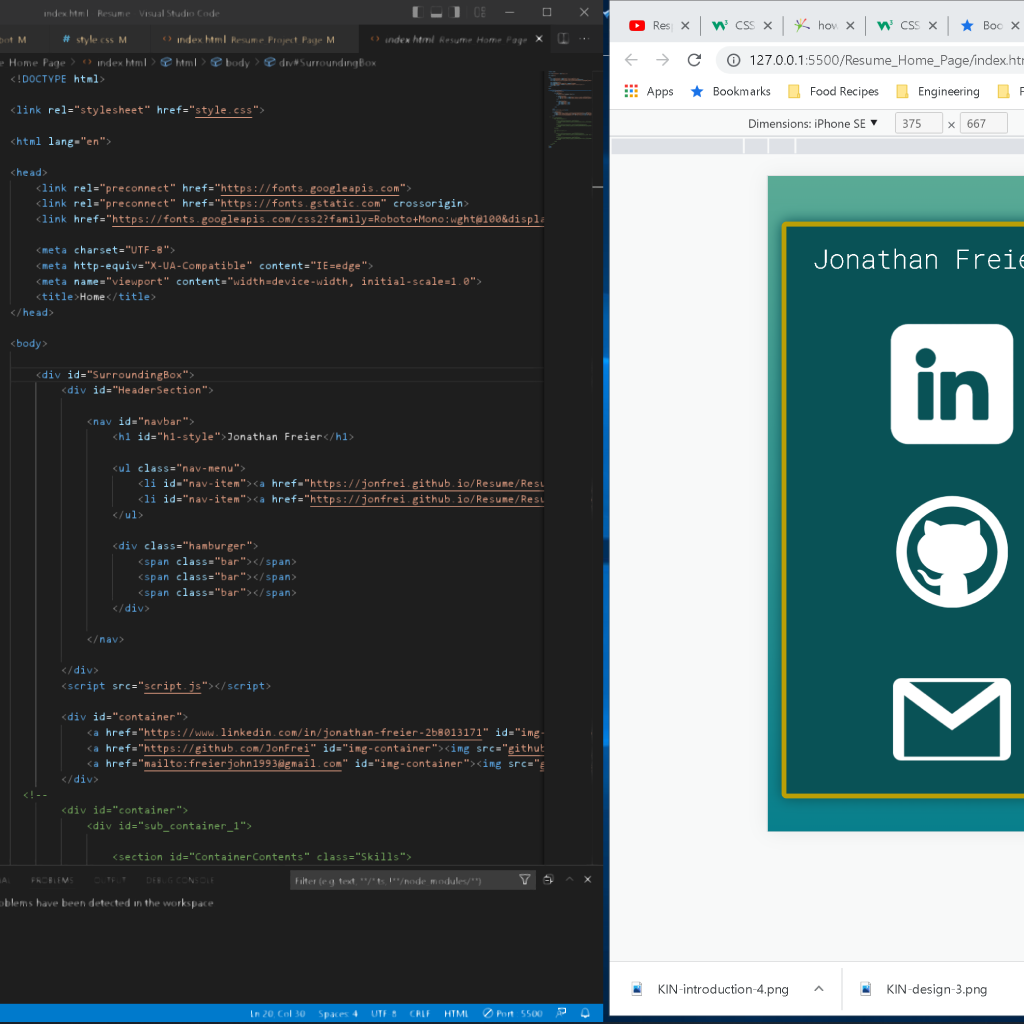
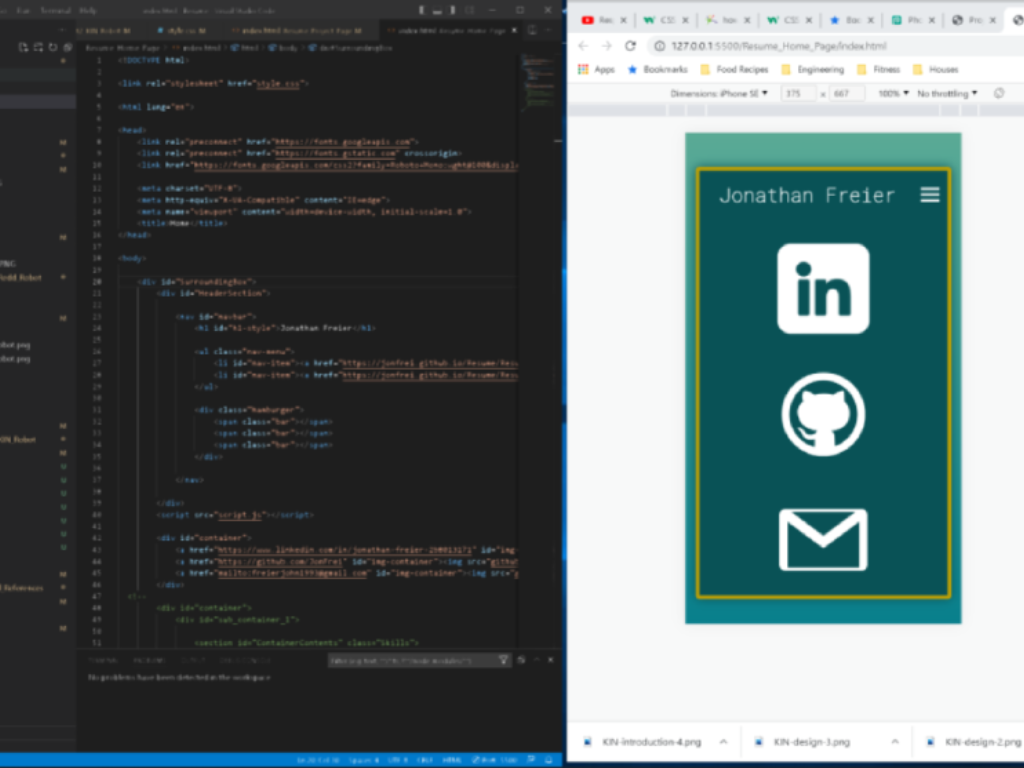
Updates

diff --git a/Resume_Project_Page/index.html b/Resume_Project_Page/index.html
@@ -38,21 +38,25 @@
         <section id="projects-container">
             <div id="projects-grid">
 
+                
                 <a class="project" href="https://jonfrei.github.io/Resume/Resume_Project_Project1_Redd_Robot" target="_blank">
                     <img class="project-img" src="Project-1.png" alt="">
                     <p class="project-title">REDD Robot</p>
                 </a>
+                
 
                 <a class="project" href="https://jonfrei.github.io/Resume/Resume_Project_Project2_KIN_Robot" target="_blank">
                     <img class="project-img" src="Project-2.png" alt="">
                     <p class="project-title">KIN Robot</p>
                 </a>
 
+                
                 <a class="project" href="https://jonfrei.github.io/Resume" target="_blank">
                     <img class="project-img" src="Project-3.png" alt="">
-                    <p class="project-title">Portfolio Website</p>
+                    <div class="project-title">Portfolio Website</div>
                 </a>
                 
+
                 <!--<a class="project" href="https://codepen.io/jfreier/pen/QWaJpjK" target="_blank">
                     <img class="project-img" src="https://cdn.freecodecamp.org/testable-projects-fcc/images/calc.png" alt="">
                     <p class="project-tile ribbon">Technical Documentation Page</p>

diff --git a/Resume_Project_Page/style.css b/Resume_Project_Page/style.css
@@ -157,11 +157,14 @@ body{
 }
 
 .project{
-    width: 25vw;
+    width: auto;
     min-width: 300px;
+    max-width: 500px;
 
-    height: calc(25vw + 75px);
+    height: fit-content;
     min-height: 300px;
+    max-height: 500px;
+
 
     display: flex;
     flex-direction: column;
@@ -190,6 +193,8 @@ body{
     align-items: center;
 
     height: 75px;
+    min-height: 75px;
+    z-index: 1;
 
     background-color: var(--Color5);
 
@@ -199,7 +204,7 @@ body{
 
 .project-img{
    object-fit: cover;
-   height: 100%;
+   height: 20vw;
    width: 100%; 
 }
 
@@ -315,10 +320,12 @@ body{
         flex-direction: column;
         justify-content: flex-start;
 
-        width: 100%;
-        height: 25vh;
+
         text-align: center;
         transition: 0.3s;
+
+        width: 100%;
+        height: auto;
         
     }
     .nav-menu.active{
@@ -370,7 +377,7 @@ body{
 
     .nav-link{
         font-size: 1.1em;
-        color: var(--Color5);
+        color: white;
     }
 
     /* Hamburger icon */
@@ -398,6 +405,7 @@ body{
 
     #projects-grid{
         min-height: 800px;
+        height: auto;
         
         flex-direction: column;
         justify-content: space-evenly;
@@ -410,6 +418,10 @@ body{
         font-size: 3vw;
         height: calc(80vw + 75px);
         width: 80vw;
+    }
+
+    .project-title{
+        height: 75px;
     }
     
     .h3-style{

diff --git a/Resume_Skills_Professional_References/style.css b/Resume_Skills_Professional_References/style.css
@@ -648,8 +648,8 @@ hr{
         padding: 0px;
         margin: 0px;
 
-        width: 0px;
-        height: 25vh;
+        width: 100%;
+        height: auto;
 
         
     }
@@ -706,7 +706,7 @@ hr{
 
     .nav-link{
         font-size: 1.1em;
-        color: var(--Color5);
+        color: white;
     }
 
     /* Hamburger icon */
@@ -855,37 +855,6 @@ hr{
     
 }
 
-
-/*
-@media screen and (max-width: 600px) {
-    .left::after{
-        content:'';
-        position: absolute;
-        background-color: var(--Color5);
-        width: 13vw;
-        height: 2px;
-    
-        left: 100%;
-        top: 60px;
-    
-        z-index: 2;
-    }
-    
-    .right::after{
-        content:'';
-        position: absolute;
-        background-color: var(--Color5);
-        width: 13vw;
-        height: 2px;
-    
-        right: 100%;
-        top: 60px;
-    
-        z-index: 2;
-    }
-    
-}
-*/
 
 @media screen and (max-width: 370px) {
     .left::after{

diff --git a/Resume_Home_Page/style.css b/Resume_Home_Page/style.css
@@ -160,7 +160,7 @@ body{
 
 .nav-link{
     font-family: 'Roboto Mono', monospace;
-    color: var(--Color5);
+    color: white;
     font-size: 2vw;
     /*
     -webkit-text-stroke-width: 10%;
@@ -301,7 +301,7 @@ body{
 
 
         width: 100%;
-        height: 25vh;
+        height: auto;
     }
 
 
@@ -317,7 +317,7 @@ body{
         top: 50px;
 
         height: auto;
-        width: calc(100vw - 2px);
+        width: calc(100vw - 6px);
         padding: 0px 0px 1em 0px;
 
         box-shadow: 0px 0px 10px black;
